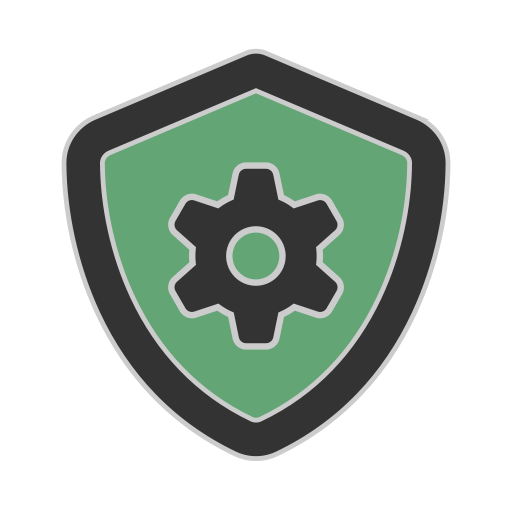
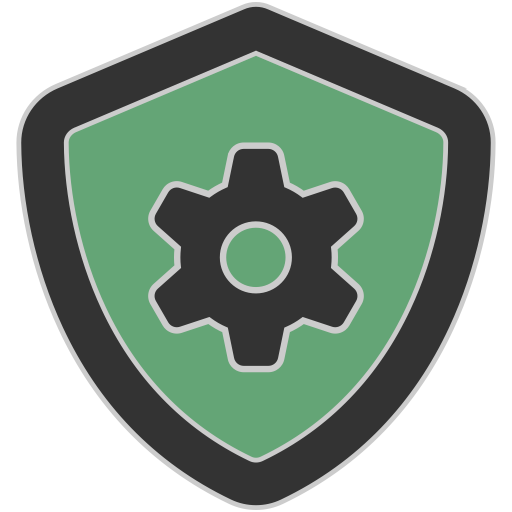
added cache busting and updated graphics

diff --git a/templates/base.html b/templates/base.html
@@ -4,11 +4,11 @@
   <meta charset="UTF-8" />
   <meta name="viewport" content="width=device-width, initial-scale=1.0" />
   <title>SSL Certificate Manager</title>
-  <link rel="apple-touch-icon" sizes="180x180" href="{{ url_for('static', filename='apple-touch-icon.png') }}">
-  <link rel="icon" type="image/png" sizes="32x32"  href="{{ url_for('static', filename='favicon-32x32.png') }}">
-  <link rel="icon" type="image/png" sizes="16x16"  href="{{ url_for('static', filename='favicon-16x16.png') }}">
-  <link rel="shortcut icon"                         href="{{ url_for('static', filename='favicon.ico') }}">
-  <link rel="manifest"                              href="{{ url_for('static', filename='site.webmanifest') }}">
+  <link rel="apple-touch-icon" sizes="180x180" href="{{ static_url('apple-touch-icon.png') }}">
+  <link rel="icon" type="image/png" sizes="32x32"  href="{{ static_url('favicon-32x32.png') }}">
+  <link rel="icon" type="image/png" sizes="16x16"  href="{{ static_url('favicon-16x16.png') }}">
+  <link rel="shortcut icon"                         href="{{ static_url('favicon.ico') }}">
+  <link rel="manifest"                              href="{{ static_url('site.webmanifest') }}">
   <link rel="stylesheet" href="https://cdn.jsdelivr.net/npm/bootstrap@5.3.3/dist/css/bootstrap.min.css" />
   <link rel="stylesheet" href="https://cdn.jsdelivr.net/npm/bootstrap-icons@1.11.3/font/bootstrap-icons.min.css" />
   <style>

diff --git a/app.py b/app.py
@@ -662,6 +662,31 @@ def _get_csrf_token():
 app.jinja_env.globals["csrf_token"] = _get_csrf_token
 
 
+def _static_url(filename):
+    """Return a cache-busting URL for a static file using its mtime as a version.
+
+    Appends ``?v=<mtime>`` so browsers fetch a fresh copy whenever the file
+    changes on disk, without requiring users to clear their cache.
+
+    Args:
+        filename: Path relative to the static folder (e.g. ``'favicon.ico'``).
+
+    Returns:
+        A URL string with a ``v`` query parameter derived from the file's
+        modification time, or ``0`` if the file cannot be found.
+    """
+    import os
+    path = os.path.join(app.static_folder, filename)
+    try:
+        v = str(int(os.path.getmtime(path)))
+    except OSError:
+        v = "0"
+    return url_for("static", filename=filename, v=v)
+
+
+app.jinja_env.globals["static_url"] = _static_url
+
+
 # ---------------------------------------------------------------------------
 # Input validation helpers
 # ---------------------------------------------------------------------------
